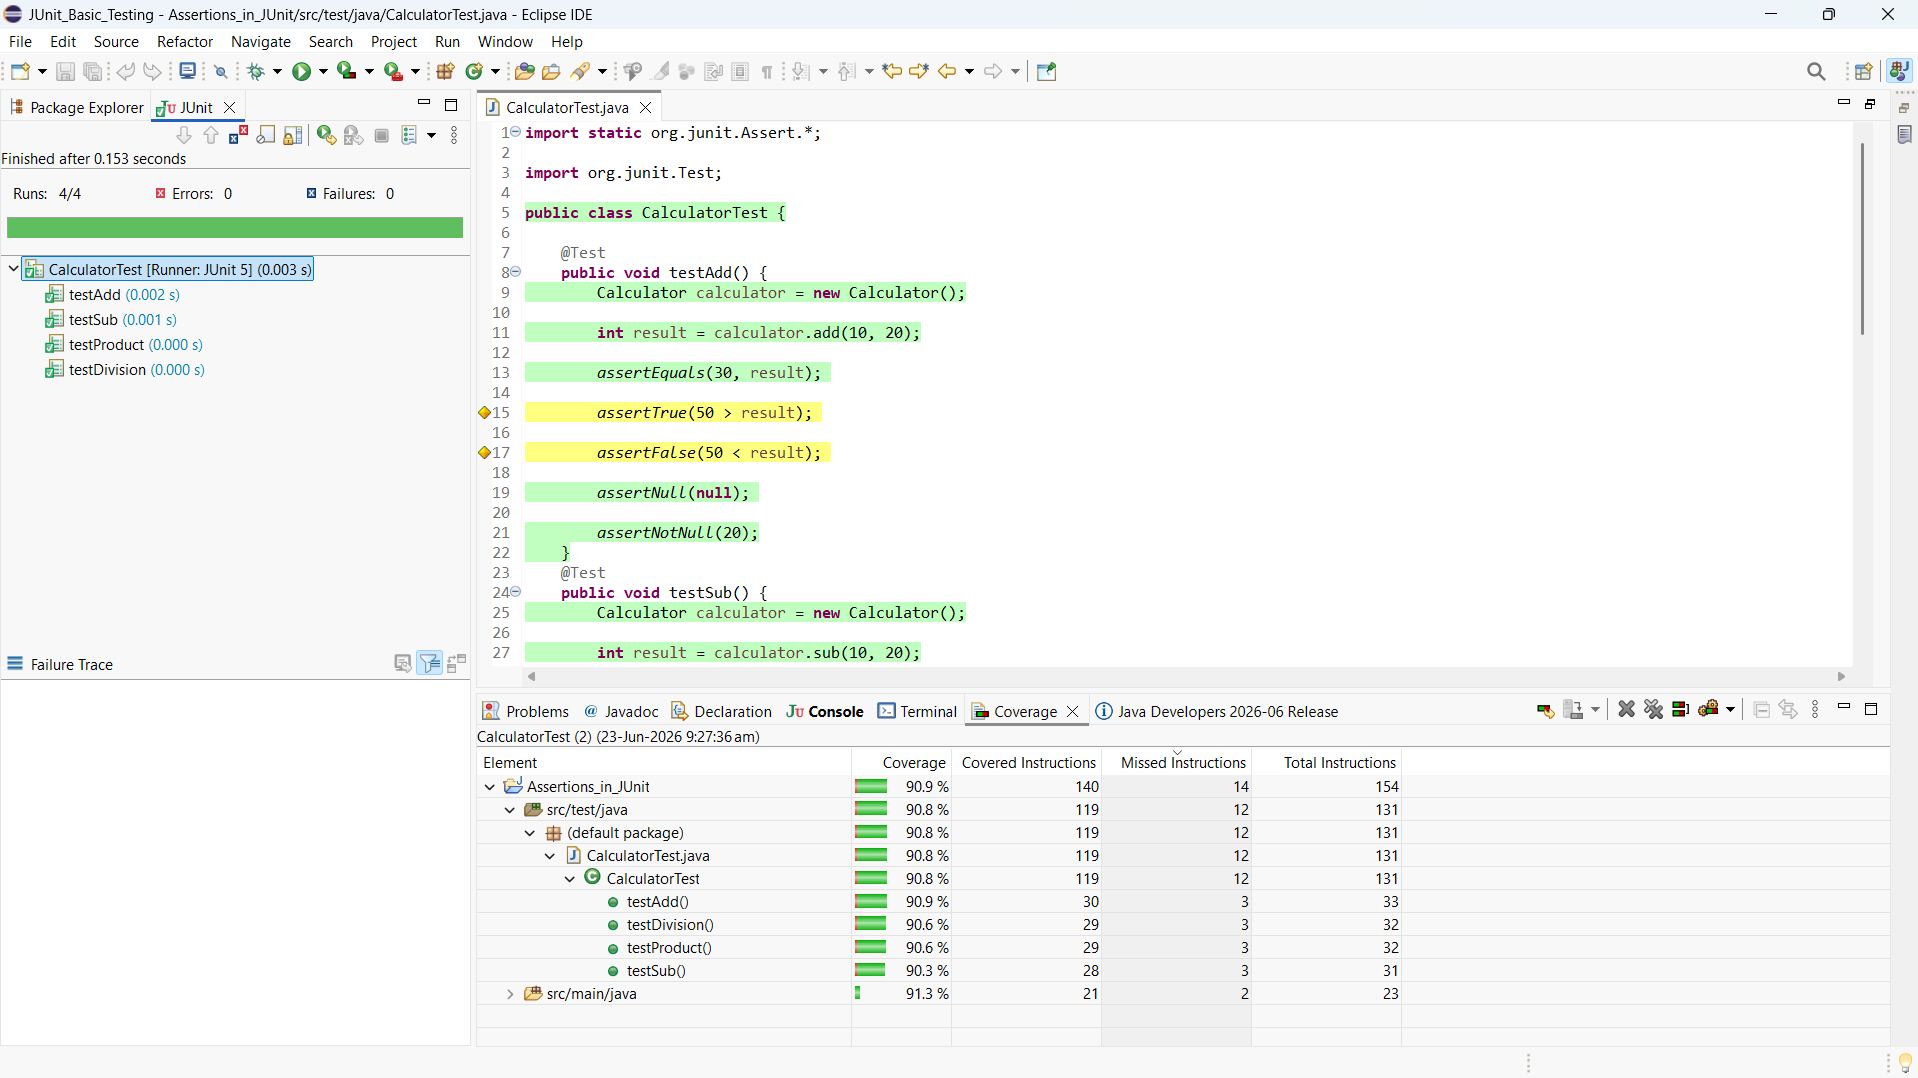
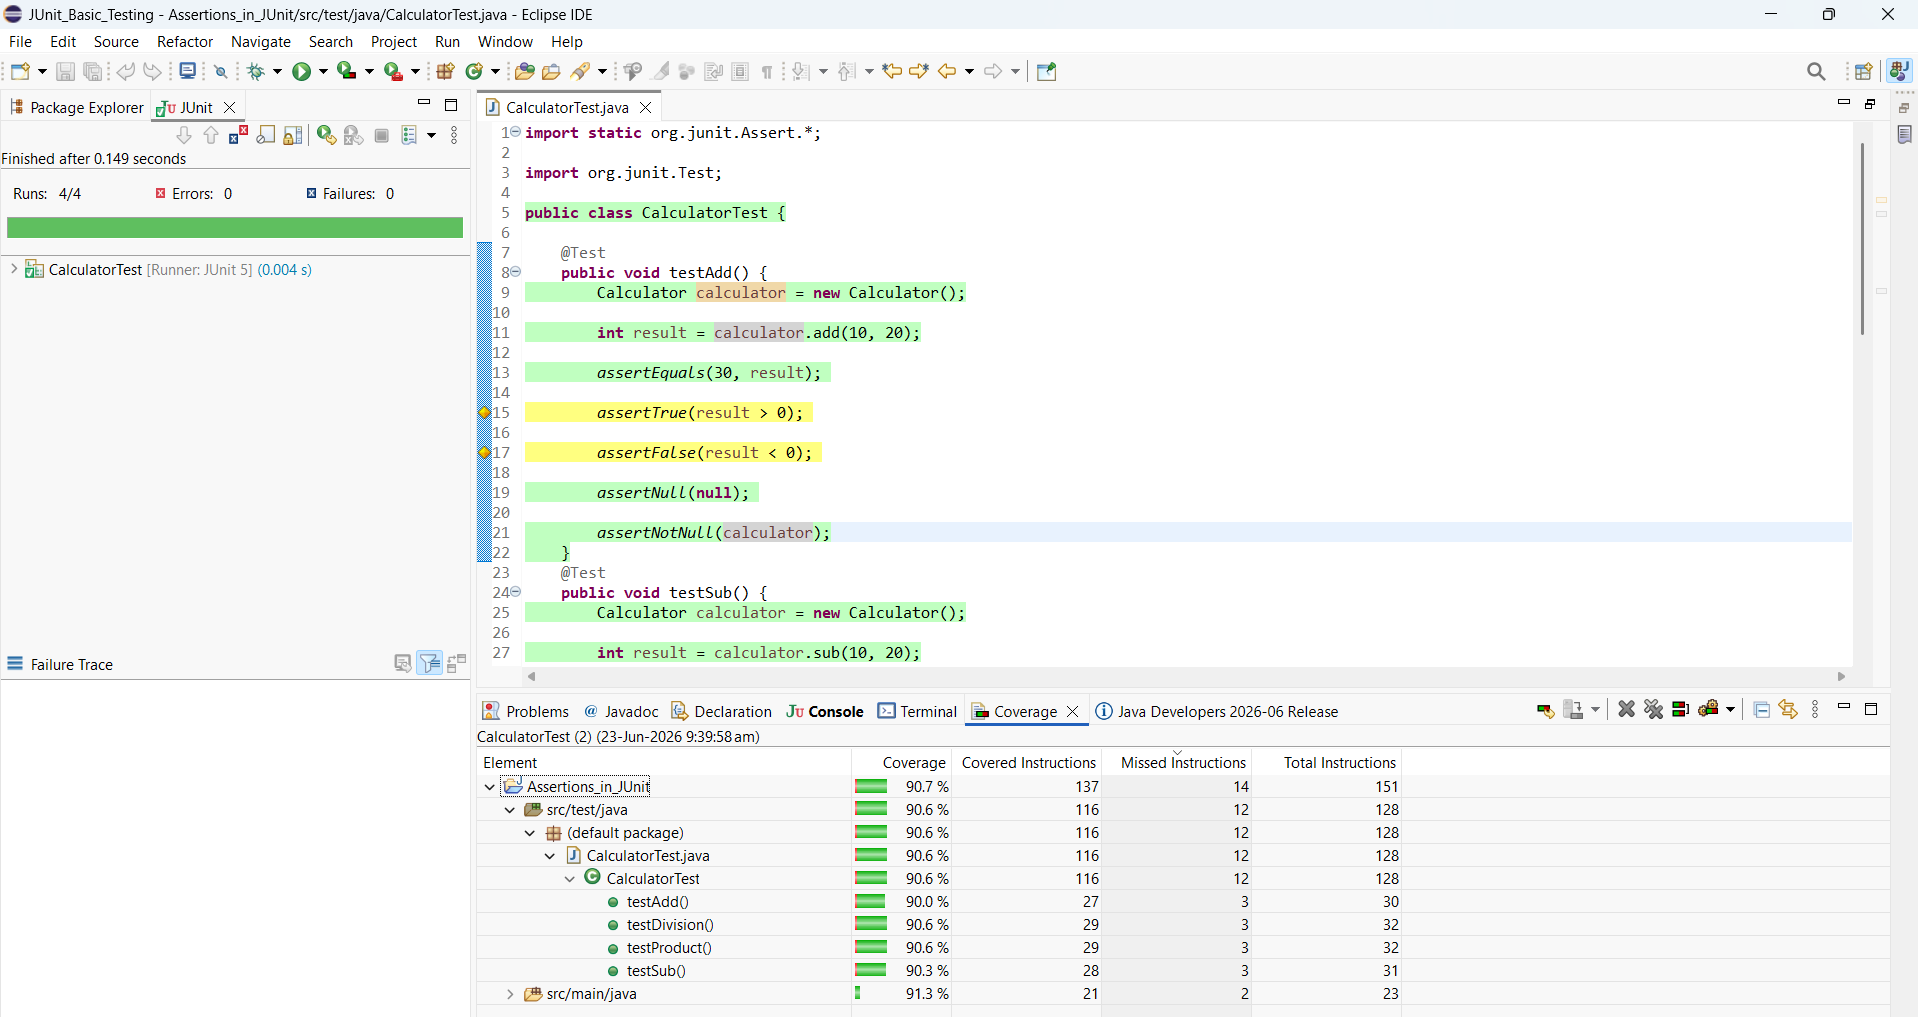
created Assertions in Junit

diff --git a/Module-3/JUnit_Basic_Testing/Assertions_in_JUnit/src/test/java/CalculatorTest.java b/Module-3/JUnit_Basic_Testing/Assertions_in_JUnit/src/test/java/CalculatorTest.java
@@ -12,13 +12,13 @@ public class CalculatorTest {
 
         assertEquals(30, result); 
         
-        assertTrue(50 > result); 
+        assertTrue(result > 0); 
  
-        assertFalse(50 < result); 
+        assertFalse(result < 0); 
  
         assertNull(null); 
 
-        assertNotNull(20);
+        assertNotNull(calculator);
     }
     @Test
     public void testSub() {